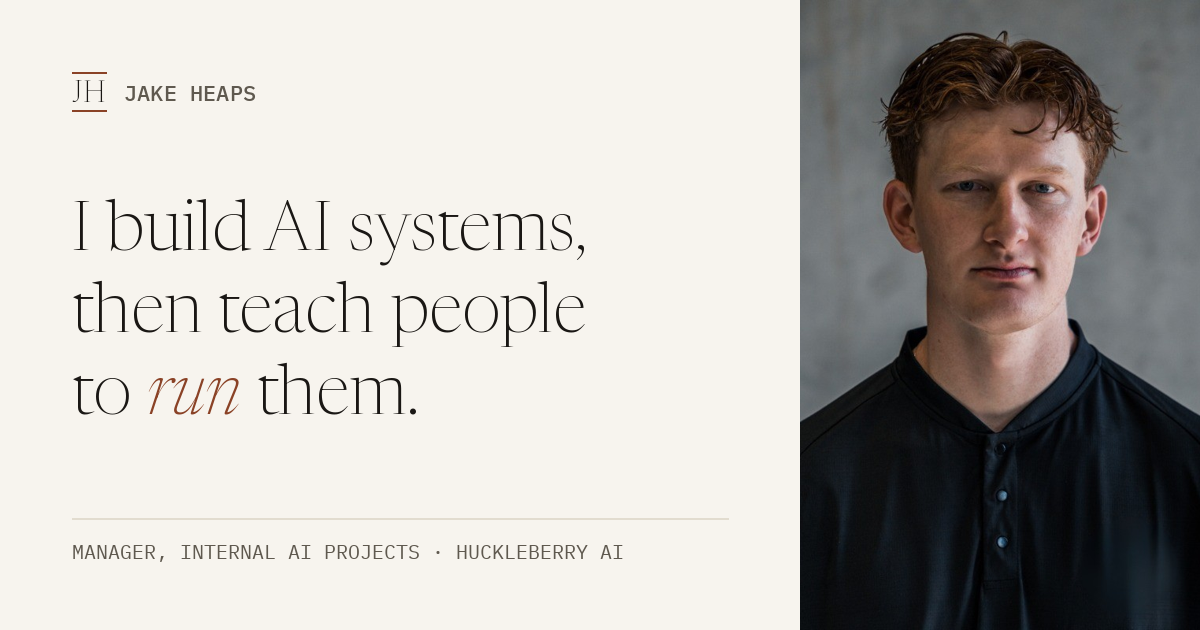
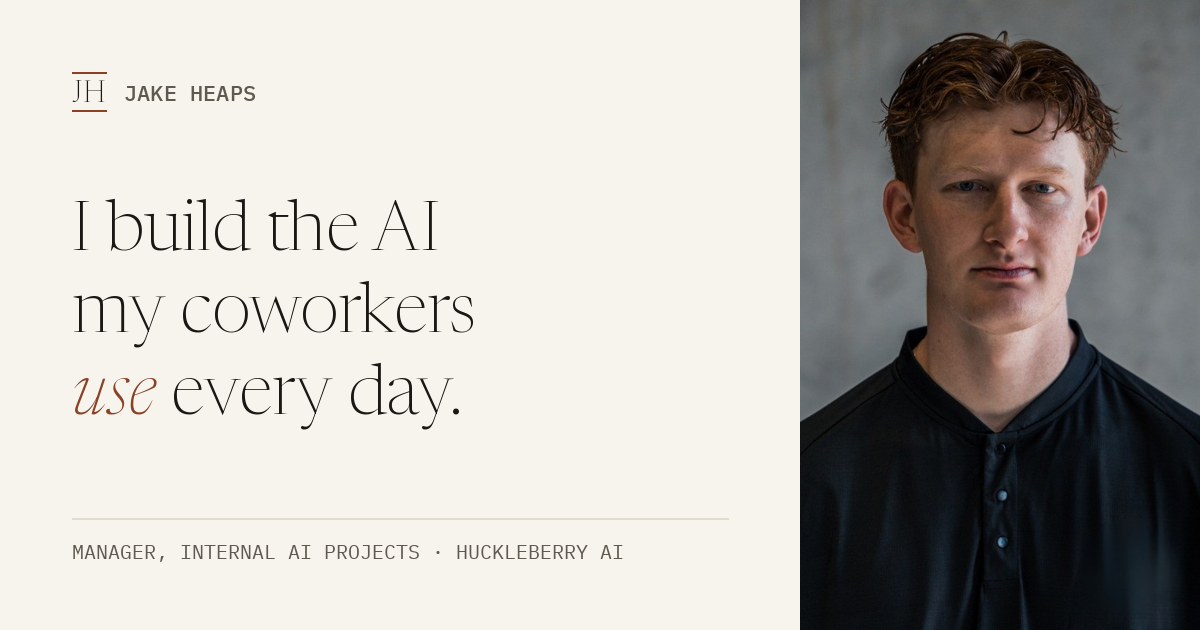
Fix blind review pass 1 findings
Curly apostrophes on Approach, 44px+ FAQ tap targets, clearer Work intro,
sienna numerals on Home, header aligned to the content grid, email kept out
of the public bundle, OG image matches the hero.

Claude-Session: https://claude.ai/code/session_01SUaNTMbQ8XxKV8ZduZE1fi

Changed region(s): [[0.0617, 0.4524, 0.4933, 0.5429], [0.0617, 0.573, 0.37, 0.6635], [0.2158, 0.3016, 0.4933, 0.4222]]

diff --git a/src/site/pages/Approach.tsx b/src/site/pages/Approach.tsx
@@ -15,40 +15,40 @@ const STEPS = [
   {
     n: "1",
     title: "Find the work that eats the week.",
-    body: "I start by watching how a team's week actually goes. A big chunk of it is usually the same few tasks, done over and over. The first system goes there, and I tie it to a number someone already tracks.",
+    body: "I start by watching how a team’s week actually goes. A big chunk of it is usually the same few tasks, done over and over. The first system goes there, and I tie it to a number someone already tracks.",
   },
   {
     n: "2",
-    title: "Build it with the people who'll use it.",
-    body: "Whoever does the task today helps build the thing that does it next. They see how it works, so they trust it sooner. They're also the ones who keep it running once I've moved on.",
+    title: "Build it with the people who’ll use it.",
+    body: "Whoever does the task today helps build the thing that does it next. They see how it works, so they trust it sooner. They’re also the ones who keep it running once I’ve moved on.",
   },
   {
     n: "3",
     title: "Count what changed.",
-    body: "I measure each system on real work. If it doesn't move the number, I turn it off. The ones that stay go in a ledger anyone can read.",
+    body: "I measure each system on real work. If it doesn’t move the number, I turn it off. The ones that stay go in a ledger anyone can read.",
   },
 ];
 
 const RULES = [
-  ["Every system has an owner.", "Someone on the team, by name. It shouldn't be me."],
-  ["Cost first, revenue second.", "Canceled software and hires you didn't have to make show up fastest, and they're easy to check."],
+  ["Every system has an owner.", "Someone on the team, by name. It shouldn’t be me."],
+  ["Cost first, revenue second.", "Canceled software and hires you didn’t have to make show up fastest, and they’re easy to check."],
   ["People approve, agents draft.", "If it spends money or reaches a customer, a person looks at it first."],
-  ["Test before it ships.", "Every release runs against a set of real questions with known answers. If the answers get worse, it doesn't ship."],
-  ["Write it down.", "If it only works when I'm in the room, it isn't finished."],
+  ["Test before it ships.", "Every release runs against a set of real questions with known answers. If the answers get worse, it doesn’t ship."],
+  ["Write it down.", "If it only works when I’m in the room, it isn’t finished."],
 ];
 
 const FAQ = [
   {
     q: "What do you build with?",
-    a: "Mostly Claude and Claude Code. I use Gemini on Google Cloud and OpenAI models when they fit better, with Python, TypeScript, and SQL around all of it. I'd rather use what a company already pays for than add another tool.",
+    a: "Mostly Claude and Claude Code. I use Gemini on Google Cloud and OpenAI models when they fit better, with Python, TypeScript, and SQL around all of it. I’d rather use what a company already pays for than add another tool.",
   },
   {
     q: "How do you get people to actually use it?",
-    a: "I sit with them. I trained more than 80 people at Domo, and the sessions helped, but habits changed when I built something with a person on their own work until they didn't need me. That's how adoption got to 93%.",
+    a: "I sit with them. I trained more than 80 people at Domo, and the sessions helped, but habits changed when I built something with a person on their own work until they didn’t need me. That’s how adoption got to 93%.",
   },
   {
     q: "Where does AI pay off first?",
-    a: "Usually on the cost side. Software you can cancel and hours the team gets back show up first, and they're easy to check. Revenue comes later and the numbers are messier.",
+    a: "Usually on the cost side. Software you can cancel and hours the team gets back show up first, and they’re easy to check. Revenue comes later and the numbers are messier.",
   },
   {
     q: "Will you speak to my team or at my event?",
@@ -181,8 +181,8 @@ export default function Approach() {
         </Reveal>
         <div className="mt-10 border-t border-hairline">
           {FAQ.map((item) => (
-            <details key={item.q} className="group border-b border-hairline py-5">
-              <summary className="flex cursor-pointer items-baseline justify-between gap-4 font-display text-h3 text-ink marker:content-none">
+            <details key={item.q} className="group border-b border-hairline">
+              <summary className="flex min-h-11 cursor-pointer items-center justify-between gap-4 py-4 font-display text-h3 text-ink marker:content-none">
                 {item.q}
                 <span aria-hidden className="font-mono text-body text-sienna transition-transform group-open:rotate-45">
                   +

diff --git a/src/site/components/ContactForm.tsx b/src/site/components/ContactForm.tsx
@@ -1,6 +1,7 @@
 import { useId, useState, type FormEvent } from "react";
 import { logConsultRequest, validateEmailShape } from "../../lib/access";
-import { CONTACT } from "../../data/contact";
+/* Used only by /brief (lazy chunk), so the address stays out of the public bundle. */
+const BRIEF_EMAIL = "jakeheaps@me.com";
 import { PRIMARY_CLASS } from "../../components/ui/buttonStyles";
 
 const FIELD =
@@ -49,8 +50,8 @@ export function ContactForm({ className = "" }: { className?: string }) {
         <p className="mt-3 text-body text-ink-soft">
           I read these myself and usually answer within a few days. If it&rsquo;s
           time-sensitive, email me at{" "}
-          <a href={`mailto:${CONTACT.email}`} className="text-cedar underline">
-            {CONTACT.email}
+          <a href={`mailto:${BRIEF_EMAIL}`} className="text-cedar underline">
+            {BRIEF_EMAIL}
           </a>
           .
         </p>

diff --git a/src/site/pages/Home.tsx b/src/site/pages/Home.tsx
@@ -146,7 +146,7 @@ export default function Home() {
                   key={label}
                   className="grid grid-cols-[6.5rem_minmax(0,1fr)] items-baseline gap-4 border-b border-hairline py-4 sm:grid-cols-[8rem_minmax(0,1fr)]"
                 >
-                  <dt className="numeral text-[2rem] leading-none text-ink sm:text-[2.5rem]">{fig}</dt>
+                  <dt className="numeral text-[2rem] leading-none text-sienna sm:text-[2.5rem]">{fig}</dt>
                   <dd className="m-0 text-body text-ink-soft">{label}</dd>
                 </div>
               ))}

diff --git a/src/site/components/SiteNav.tsx b/src/site/components/SiteNav.tsx
@@ -52,10 +52,10 @@ export default function SiteNav() {
         </Link>
       </div>
 
-      <header data-site-nav="" className={BAR}>
+      <header data-site-nav="" className={`${BAR} sm:px-6`}>
         <nav
           aria-label="Primary"
-          className="mx-auto flex max-w-[1100px] items-center justify-between gap-4 px-3 sm:px-6"
+          className="mx-auto flex max-w-[1100px] items-center justify-between gap-4 px-3 sm:px-0"
         >
           <Link
             to="/"

diff --git a/src/site/pages/Work.tsx b/src/site/pages/Work.tsx
@@ -156,8 +156,8 @@ export default function Work() {
         <Reveal>
           <h2 className={H2}>Some of what I built.</h2>
           <p className="measure mt-5 text-lede text-ink-soft">
-            These are the ones I&rsquo;d show you first. I built all but the
-            last one at Domo. The last one is my own.
+            These are the ones I&rsquo;d show you first, all from my year at
+            Domo.
           </p>
         </Reveal>
 

diff --git a/src/data/contact.ts b/src/data/contact.ts
@@ -1,6 +1,5 @@
 /** Public contact details. One place, so the footer, contact band, and About agree. */
 export const CONTACT = {
-  email: "jakeheaps@me.com",
   linkedin: "https://www.linkedin.com/in/jakeheaps/",
   location: "American Fork, Utah",
 } as const;

diff --git a/scripts/generate-og.py b/scripts/generate-og.py
@@ -57,14 +57,12 @@ d.text((M + mw + 18, M + 6), "JAKE HEAPS", font=mono, fill=INK_SOFT)
 head = newsreader(68)
 head_i = newsreader(68, italic=True)
 y = 200
-d.text((M, y), "I build AI systems,", font=head, fill=INK)
-d.text((M, y + 82), "then teach people", font=head, fill=INK)
+d.text((M, y), "I build the AI", font=head, fill=INK)
+d.text((M, y + 82), "my coworkers", font=head, fill=INK)
 x = M
-d.text((x, y + 164), "to ", font=head, fill=INK)
-x += d.textlength("to ", font=head)
-d.text((x, y + 164), "run", font=head_i, fill=SIENNA)
-x += d.textlength("run", font=head_i)
-d.text((x, y + 164), " them.", font=head, fill=INK)
+d.text((x, y + 164), "use", font=head_i, fill=SIENNA)
+x += d.textlength("use", font=head_i)
+d.text((x, y + 164), " every day.", font=head, fill=INK)
 
 # Footer line
 d.line([(M, H - M - 40), (text_right, H - M - 40)], fill=HAIRLINE, width=2)

diff --git a/coordination/reviews/site-pass-1.md b/coordination/reviews/site-pass-1.md
@@ -1,0 +1,21 @@
+# Blind review · pass 1 · jakeheaps.com (/, /work, /about, /approach)
+
+Reviewer: fresh Opus subagent, blind (site folder only). Cost: ~178K tokens, 54 tool calls, ~7 minutes.
+
+Overall: **4.0 · Ready.** Brand 4, Voice 4, Story and stats 4, Work page 4, Mobile 4, Constraints 4, Craft and accessibility 4.
+
+| # | Severity | Defect | Owner | Action |
+|---|---|---|---|---|
+| 1 | should fix | Straight apostrophes on Approach | coordinator (pages-copy stopped) | Fixed: converted to ’ |
+| 2 | should fix | Work intro "the last one is my own" points 15 rows down | coordinator (work-page stopped) | Fixed: line now says all are from Domo |
+| 3 | should fix | 1.65x arithmetic not shown | — | **Declined for now.** The methodology note has an open 10-vs-7 FTE question; showing arithmetic that gives 1.625 would conflict with the published 1.65x. Asked Jake. |
+| 4 | should fix | FAQ summary tap target 27px | coordinator | Fixed: padding on summary, min-h-11 (now 58 to 81px) |
+| 5a | should fix | Email string in public JS bundle | coordinator | Fixed: email moved into ContactForm (only loaded by /brief) |
+| 5b | should fix | /screenshots/* reachable by URL | — | **Declined.** Jake said leave /brief as is; those files serve /brief. |
+| 6 | polish | Home stat numerals ink, not sienna | coordinator | Fixed |
+| 7 | polish | Header inset from body grid at 1440 | coordinator | Fixed: nav left = h1 left = 163px |
+| 8 | polish | "canceled software / built instead of buying" repeated | — | Left; noted |
+| 9 | polish | Logo strip uneven on mobile | — | Left |
+| 10 | polish | OG headline differs from hero | coordinator | Fixed: OG regenerated with hero line |
+| 11 | polish | No meta description in route HTML | — | Not a defect: descriptions are present (multi-line tag); reviewer's grep missed them |
+| 12 | polish | Work page long on mobile, no jump links | — | Left |
